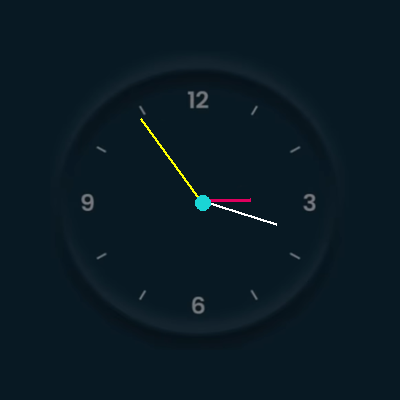
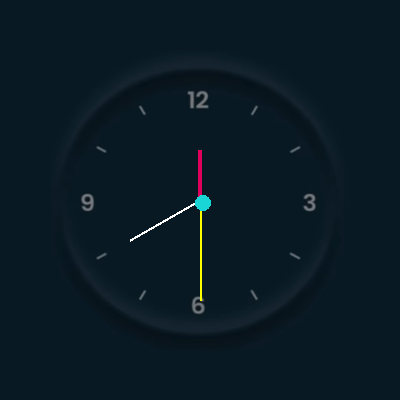
create clock

diff --git a/dashboard.py b/dashboard.py
@@ -1,10 +1,13 @@
 from tkinter import *
 from tkinter import ttk,messagebox
-from PIL import Image,ImageTk
+from PIL import Image,ImageTk,ImageDraw
 from course import Course
 from student import Student
 from report import Report
 from result import Result
+from datetime import *
+from math import *
+import time
 import os
 
 class RMS:
@@ -45,6 +48,11 @@ class RMS:
         self.lbl_result=Label(self.root,text="Total Results\n[ 0 ]",font=("goudy old style",20),bd=10,relief=RIDGE,bg="#038074",fg="white")
         self.lbl_result.place(x=1020,y=540,width=300,height=100)
 
+        #----------- clock -------------
+        self.lbl=Label(self.root,text="\nClock",font=("Book Antiqua",25,"bold"),fg="white",compound=BOTTOM,bg="#081923",bd=0)
+        self.lbl.place(x=10,y=180,height=450,width=350)
+        self.working()
+
         #------------- footer --------------
         footer=Label(self.root,text="Student Result Management System\nContact Us for any Technical Issue: 9899459288",font=("goudy old style",12),bg="#262626",fg="white").pack(side=BOTTOM,fill=X)
 
@@ -69,6 +77,38 @@ class RMS:
         op=messagebox.askyesno("Confirm","Do you really want to exit?",parent=self.root)
         if op==True:
             self.root.destroy()
+
+    def clock_image(self,hr,min_,sec_):
+        clock=Image.new("RGB",(400,400),(8,25,35))
+        draw=ImageDraw.Draw(clock)
+        #---------- For Clock Image ------------
+        bg=Image.open("Student-Result-Management-System/images/c.png")
+        bg=bg.resize((300,300))
+        clock.paste(bg,(50,50))
+
+        #---------- Hour Line Image ---------------
+        origin=200,200
+        draw.line((origin,200+50*sin(radians(hr)),200-50*cos(radians(hr))),fill="#DF005E",width=4)
+        #---------- Min Line Image --------------
+        draw.line((origin,200+80*sin(radians(min_)),200-80*cos(radians(min_))),fill="white",width=3)
+        #---------- Sec Line Image --------------
+        draw.line((origin,200+100*sin(radians(sec_)),200-100*cos(radians(sec_))),fill="yellow",width=2)
+        draw.ellipse((195,195,210,210),fill="#1AD5D5")
+        clock.save("Student-Result-Management-System/images/clock_new.png")
+
+    def working(self):
+        h=datetime.now().time().hour
+        m=datetime.now().time().minute
+        s=datetime.now().time().second
+
+        hr=(h/12)*360
+        min_=(m/60)*360
+        sec_=(s/60)*360
+
+        self.clock_image(hr,min_,sec_)
+        self.img=ImageTk.PhotoImage(file="Student-Result-Management-System/images/clock_new.png")
+        self.lbl.config(image=self.img)
+        self.lbl.after(200,self.working)
 
 
 if __name__=="__main__":
